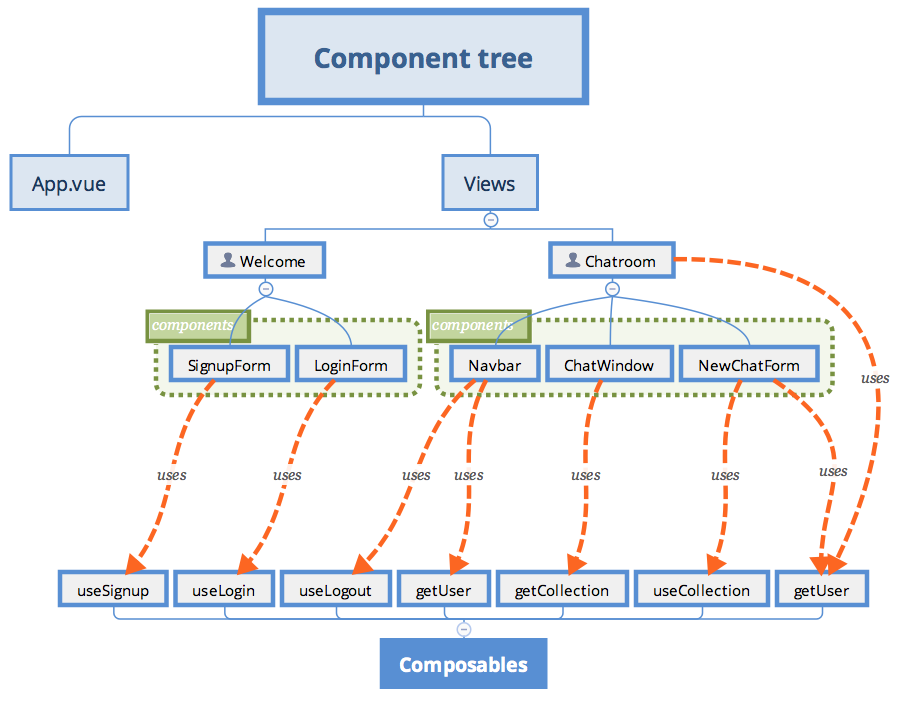
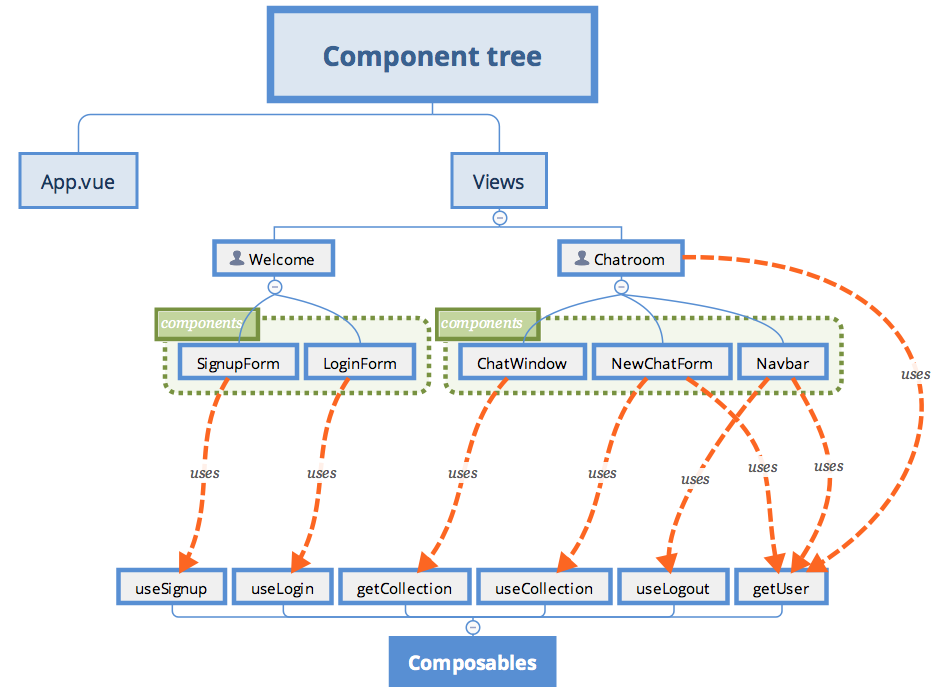
- Fixed component tree diagram; - Updated doc.

diff --git a/README.md b/README.md
@@ -27,6 +27,8 @@ This project is based on the second project developed by [The Net Ninja (Shaun P
 
 ### Composables
 
+## Communication Flow
+
 ## File Structure
 
 <img src="./pics/FileStructure.png" />
